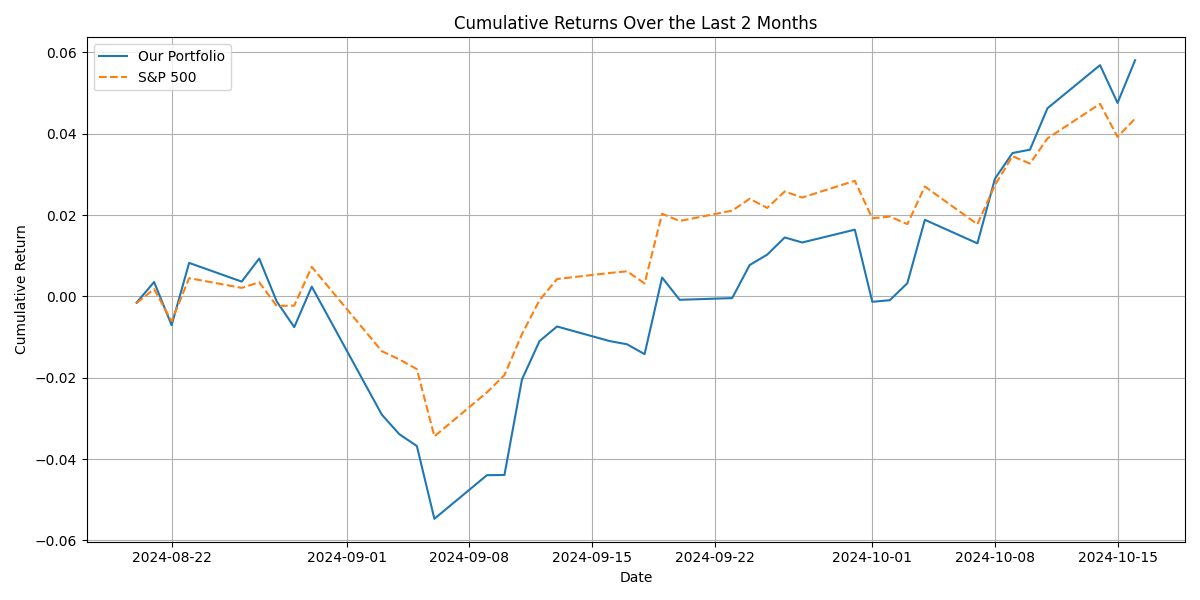
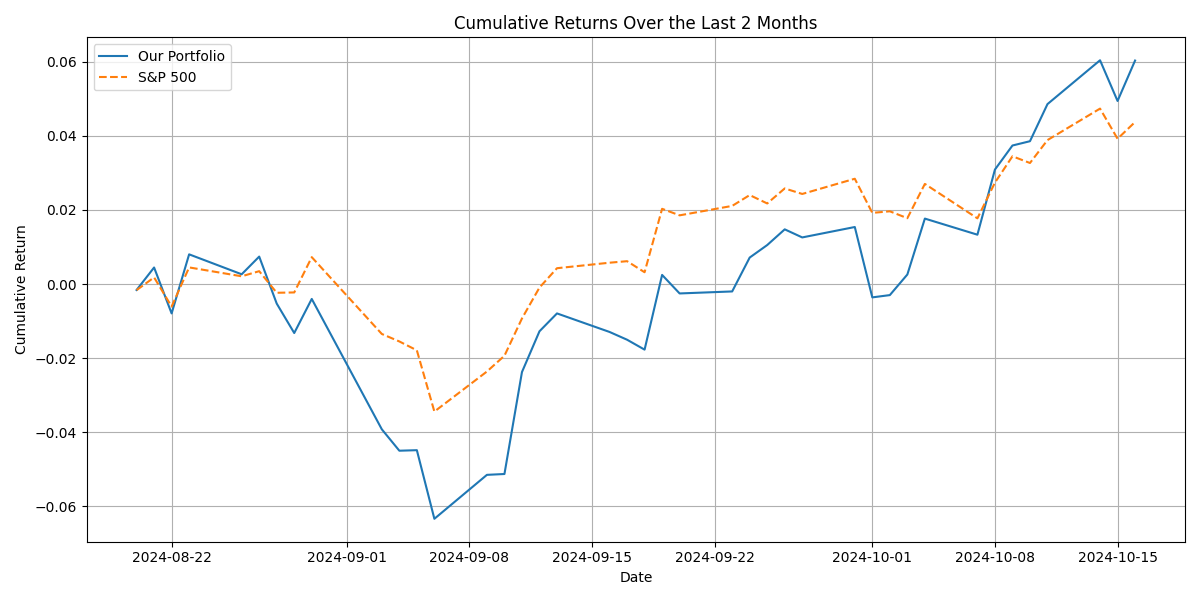
newest chamges

diff --git a/portfolio.py b/portfolio.py
@@ -7,7 +7,7 @@ portfolio = {
     'AAPL': {'shares': 447},
     'ACN': {'shares': 72},
     'ANET': {'shares': 166},
-    'BRK-B': {'shares': 215},  
+    #'BRK-B': {'shares': 215},  
     'JPM': {'shares': 587},
     'LULU': {'shares': 375},
     'MSFT': {'shares': 234},
@@ -15,6 +15,7 @@ portfolio = {
     'VSPGX': {'shares': 131},
     'WMT': {'shares': 1246},
     #need to add new securities after new trades below this and recalculate graphs/simulation
+    # figure out how selling brk.b and shorting oil will affect this later
 }
 
 symbols = list(portfolio.keys())
